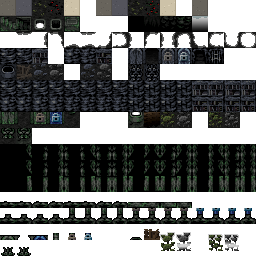
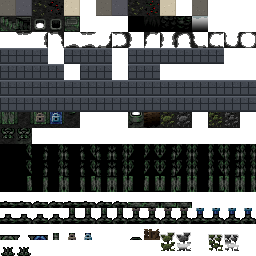
feat(autochess): 重画墙壁 + 撤掉金边和外围网格
- 墙帧（第 3~6 行 64 个）整体重绘成干净的石砖：
  蓝灰石底 + 错缝砖纹 + 顶部受光线 + 底部阴影 + 轻噪点
- 金边和外围暗网格反馈不好看，全部撤掉（AutochessArenaOverlay 现在为空）
- 棋盘外围回到纯黑

Changed region(s): [[0.0, 0.1875, 1.0, 0.4375]]

diff --git a/core/src/main/java/com/shatteredpixel/shatteredpixeldungeon/challenges/autochess/AutochessArenaOverlay.java b/core/src/main/java/com/shatteredpixel/shatteredpixeldungeon/challenges/autochess/AutochessArenaOverlay.java
@@ -1,81 +1,16 @@
 package com.shatteredpixel.shatteredpixeldungeon.challenges.autochess;
 
-import com.shatteredpixel.shatteredpixeldungeon.levels.ChessBoardLevel;
-import com.shatteredpixel.shatteredpixeldungeon.tiles.DungeonTilemap;
-import com.shatteredpixel.shatteredpixeldungeon.ui.DiceMageUI;
-import com.watabou.noosa.ColorBlock;
 import com.watabou.noosa.ui.Component;
 
 /**
- * 棋盘外的装饰（云顶风）：
- * <ul>
- *   <li>战场外圈一条暖金色描边（云顶的镶边感）</li>
- *   <li>两条备战席也镶金边</li>
- *   <li>棋盘外围铺一层很暗的蓝网格，替代纯黑背景</li>
- * </ul>
- * 全部画在棋子之下、地砖之上，不会挡住单位。
+ * 棋盘装饰层（当前为空）。
+ *
+ * <p>金边和外围网格都被反馈「不好看」撤掉了，敌我区分交给地砖颜色；
+ * 这里保留一个空组件，方便以后加「选中高亮」之类的临时效果。</p>
  */
 public class AutochessArenaOverlay extends Component {
 
-	private static final int CELL = DungeonTilemap.SIZE;
-
 	public AutochessArenaOverlay() {
 		super();
-
-		// ---------- 外围暗色网格（棋盘四周）----------
-		int boardW = ChessBoardLevel.SIZE * CELL;
-		int boardH = ChessBoardLevel.HEIGHT * CELL;
-		int margin = 96;
-
-		int gridColor = 0x14A8C8E8;     // 很淡的冷蓝
-		for (int gx = -margin; gx <= boardW + margin; gx += CELL) {
-			ColorBlock line = new ColorBlock(1, boardH + margin * 2, gridColor);
-			line.x = gx;
-			line.y = -margin;
-			add(line);
-		}
-		for (int gy = -margin; gy <= boardH + margin; gy += CELL) {
-			ColorBlock line = new ColorBlock(boardW + margin * 2, 1, gridColor);
-			line.x = -margin;
-			line.y = gy;
-			add(line);
-		}
-
-		// ---------- 战场金边 ----------
-		float fx = 1 * (float) CELL;
-		float fy = ChessBoardLevel.FIELD_MIN_Y * (float) CELL;
-		float fw = (ChessBoardLevel.SIZE - 2) * (float) CELL;
-		float fh = (ChessBoardLevel.FIELD_MAX_Y - ChessBoardLevel.FIELD_MIN_Y + 1) * (float) CELL;
-		goldFrame(fx, fy, fw, fh);
-
-		// ---------- 两条备战席金边 ----------
-		float bx = ChessBoardLevel.BENCH_MIN_X * (float) CELL;
-		float by = ChessBoardLevel.BENCH_Y * (float) CELL;
-		goldFrame(bx, by, ChessBoardLevel.BENCH_COUNT * (float) CELL, CELL);
-
-		float ebx = ChessBoardLevel.ENEMY_BENCH_MIN_X * (float) CELL;
-		float eby = ChessBoardLevel.ENEMY_BENCH_Y * (float) CELL;
-		goldFrame(ebx, eby, ChessBoardLevel.ENEMY_BENCH_COUNT * (float) CELL, CELL);
-	}
-
-	private void goldFrame(float x, float y, float w, float h) {
-		int outer = 0xCCB59E09;   // 暗金
-		int inner = 0x66F1E5B5;   // 淡金高光
-
-		addBlock(x, y, w, 1, outer);
-		addBlock(x, y + h - 1, w, 1, outer);
-		addBlock(x, y, 1, h, outer);
-		addBlock(x + w - 1, y, 1, h, outer);
-
-		// 内侧一条更淡的金线，做出「双线镶边」的质感
-		addBlock(x + 1, y + 1, w - 2, 1, inner);
-		addBlock(x + 1, y + h - 2, w - 2, 1, inner);
-	}
-
-	private void addBlock(float x, float y, float w, float h, int color) {
-		ColorBlock block = new ColorBlock(w, h, color);
-		block.x = x;
-		block.y = y;
-		add(block);
 	}
 }
